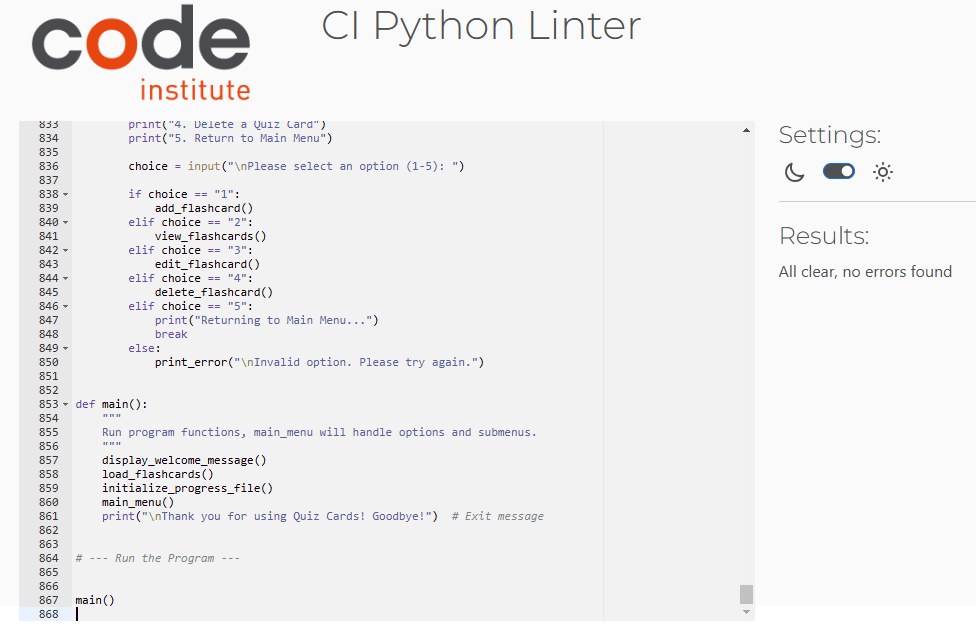
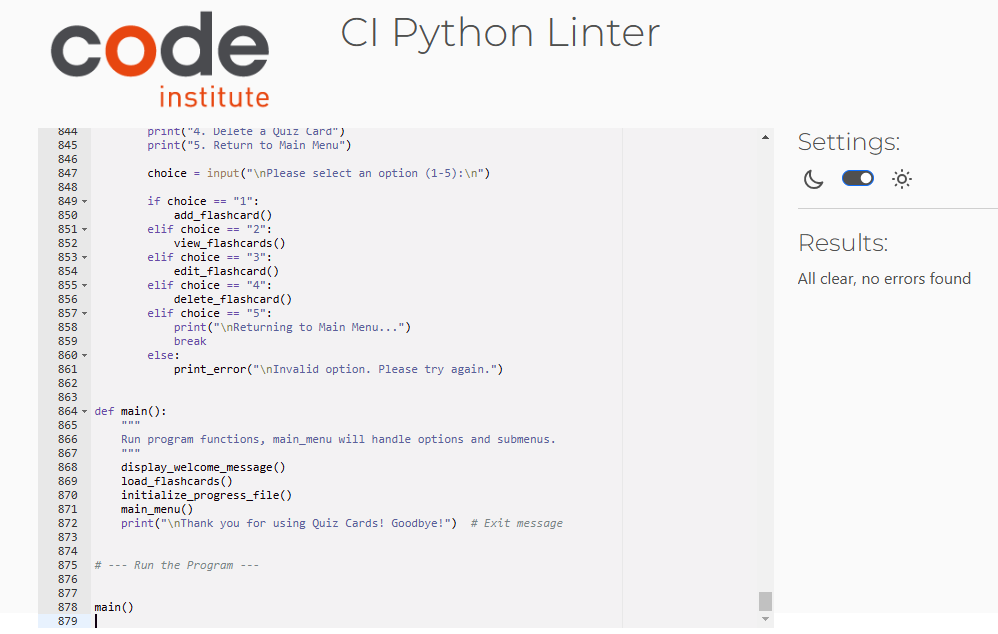
Add new line characters in edit_flashcard and delete_flashcards to improve readability

diff --git a/run.py b/run.py
@@ -267,13 +267,15 @@ def edit_flashcard():
     flashcard = flashcards[index]
 
     print(
-        f"\nSelected Quiz Card: Term = '{flashcard['term']}', "
-        f"Definition = '{flashcard['definition']}', "
-        f"Category = '{flashcard['category'] or 'Uncategorized'}'"
+        f"\nSelected Quiz Card:\n \nTerm = '{flashcard['term']}', "
+        f"\nDefinition = '{flashcard['definition']}', "
+        f"\nCategory = '{flashcard['category'] or 'Uncategorized'}'"
     )
     # Ask for confirmation before allowing edits
-    if not confirm_action("\nDo you want to edit this Quiz Card? (yes/no): "):
+    message = "\nDo you want to edit this Quiz Card? (yes/no):\n "
+    if not confirm_action(message):
         print("\nEdit cancelled.")
+        print("\nReturning to Previous Menu...")
         return
 
     new_term = input(
@@ -325,12 +327,12 @@ def delete_flashcard():
 
     # Get a valid flashcard index from the user
     index = get_valid_index(
-        "Enter the number of the Quiz Card to delete: ", len(flashcards) - 1
+        "\nEnter the number of the Quiz Card to delete: ", len(flashcards) - 1
     )
     flashcard = flashcards[index]
 
     print(
-        f"\nSelected Quiz Card:\nTerm: {flashcard['term']}\n"
+        f"\nSelected Quiz Card:\n \nTerm: {flashcard['term']}\n"
         f"Definition: {flashcard['definition']}\n"
         f"Category: {flashcard['category'] or 'Uncategorized'}"
     )
